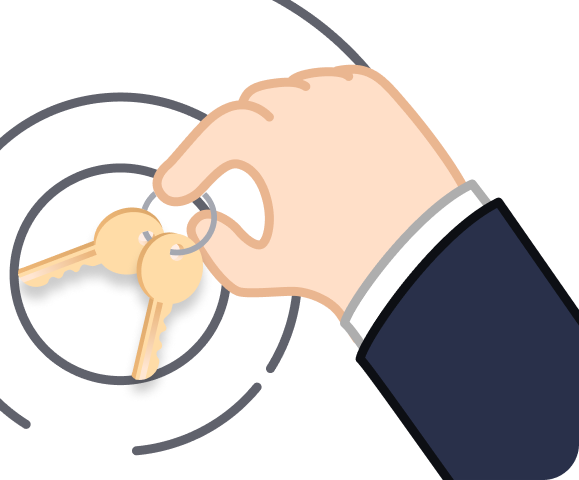
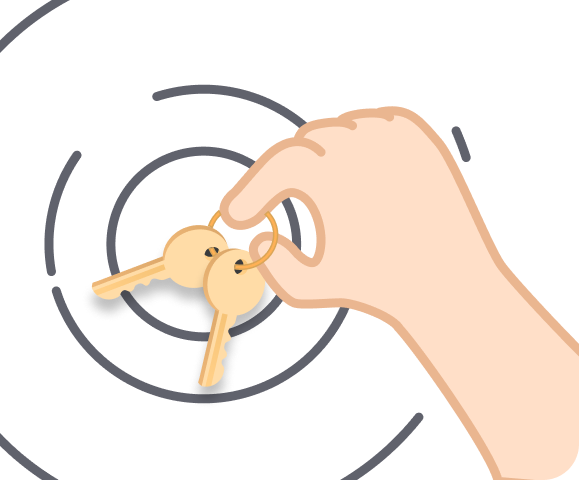
update image asset

diff --git a/screens/AddKRC20Tokens/index.tsx b/screens/AddKRC20Tokens/index.tsx
@@ -77,10 +77,6 @@ export default () => {
           styles.cardWrapper,
           {backgroundColor: theme.backgroundFocusColor},
         ]}>
-        {/* <Image
-          style={{width: 185, height: 162}}
-          source={require('../../assets/import_seed_phrase.png')}
-        /> */}
         <View style={{marginBottom: 24, marginLeft: 18}}>
           <CustomText
             allowFontScaling={false}
@@ -91,6 +87,10 @@ export default () => {
             {getLanguageString(language, 'CUSTOM_TOKENS_DESC')}
           </CustomText>
         </View>
+        <Image
+          style={{width: 186, height: 160}}
+          source={require('../../assets/add_custom_token.png')}
+        />
       </TouchableOpacity>
     </SafeAreaView>
   );
